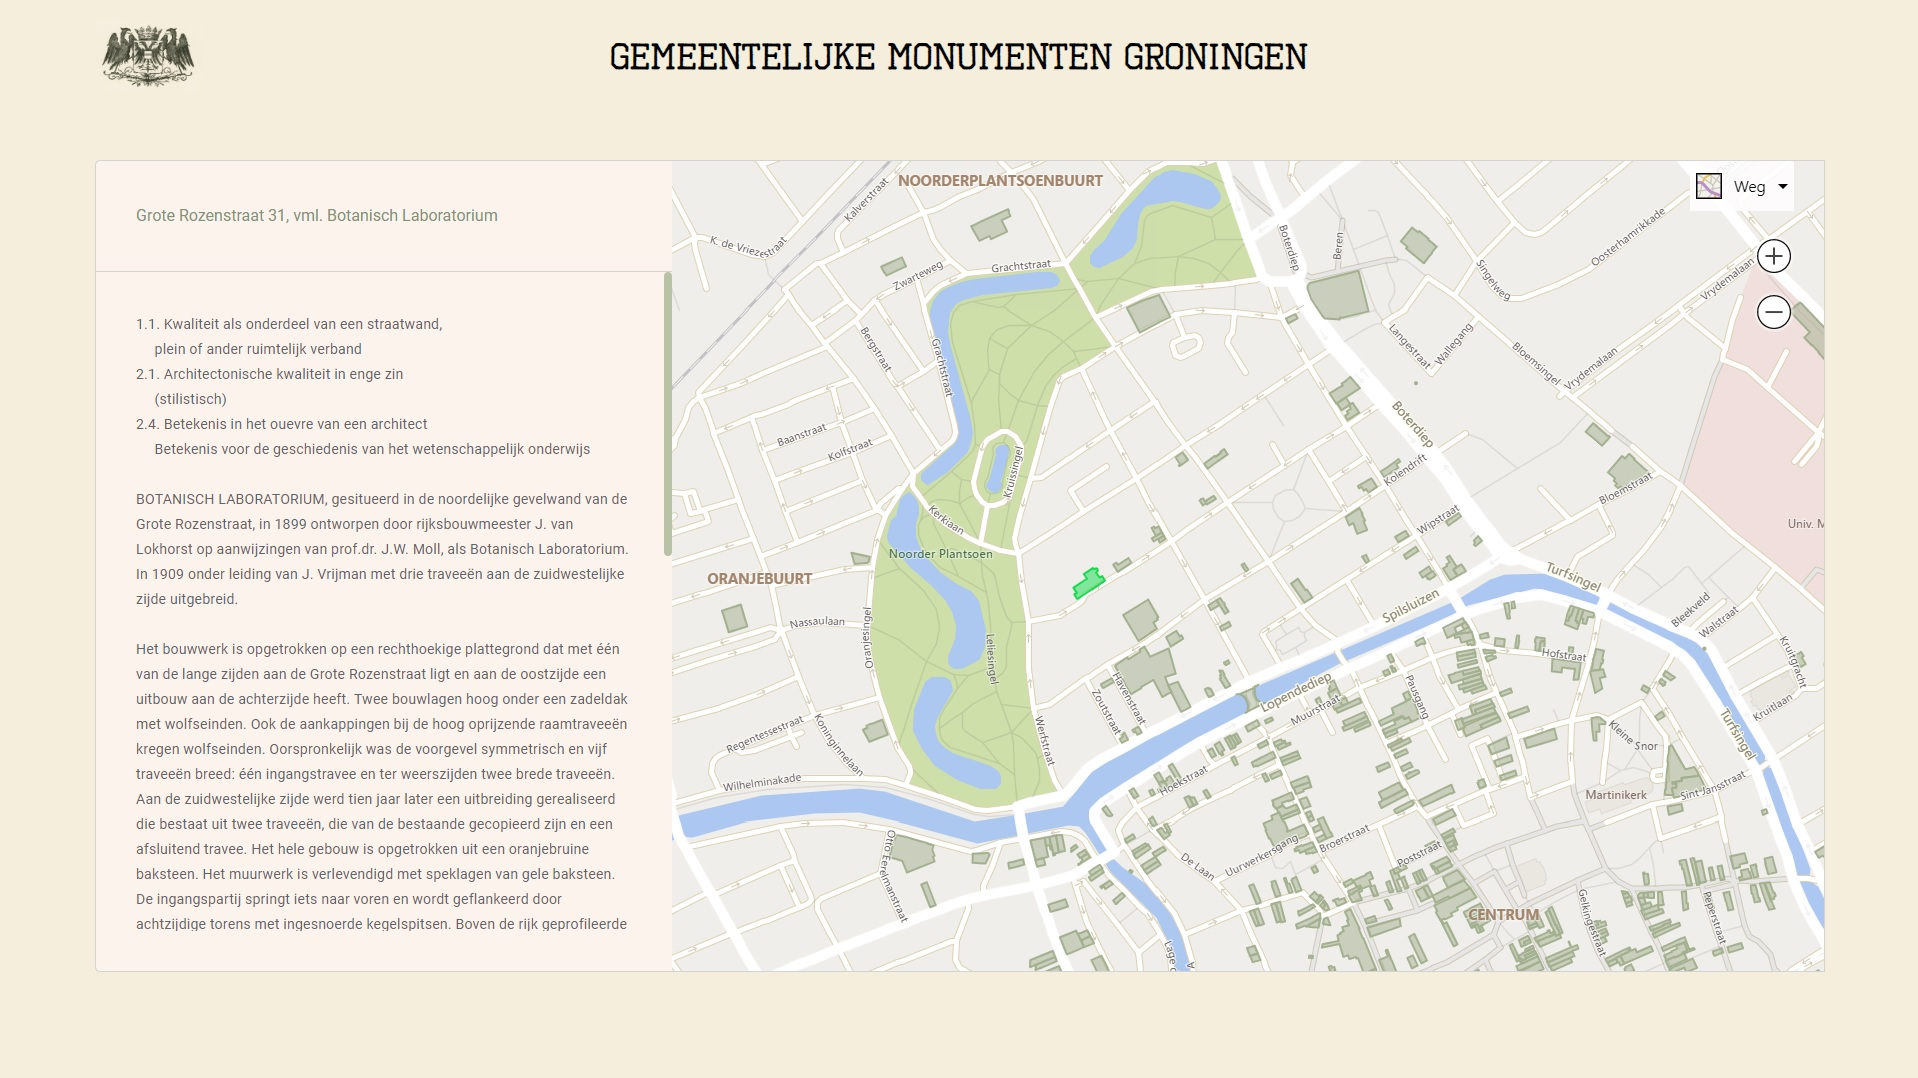
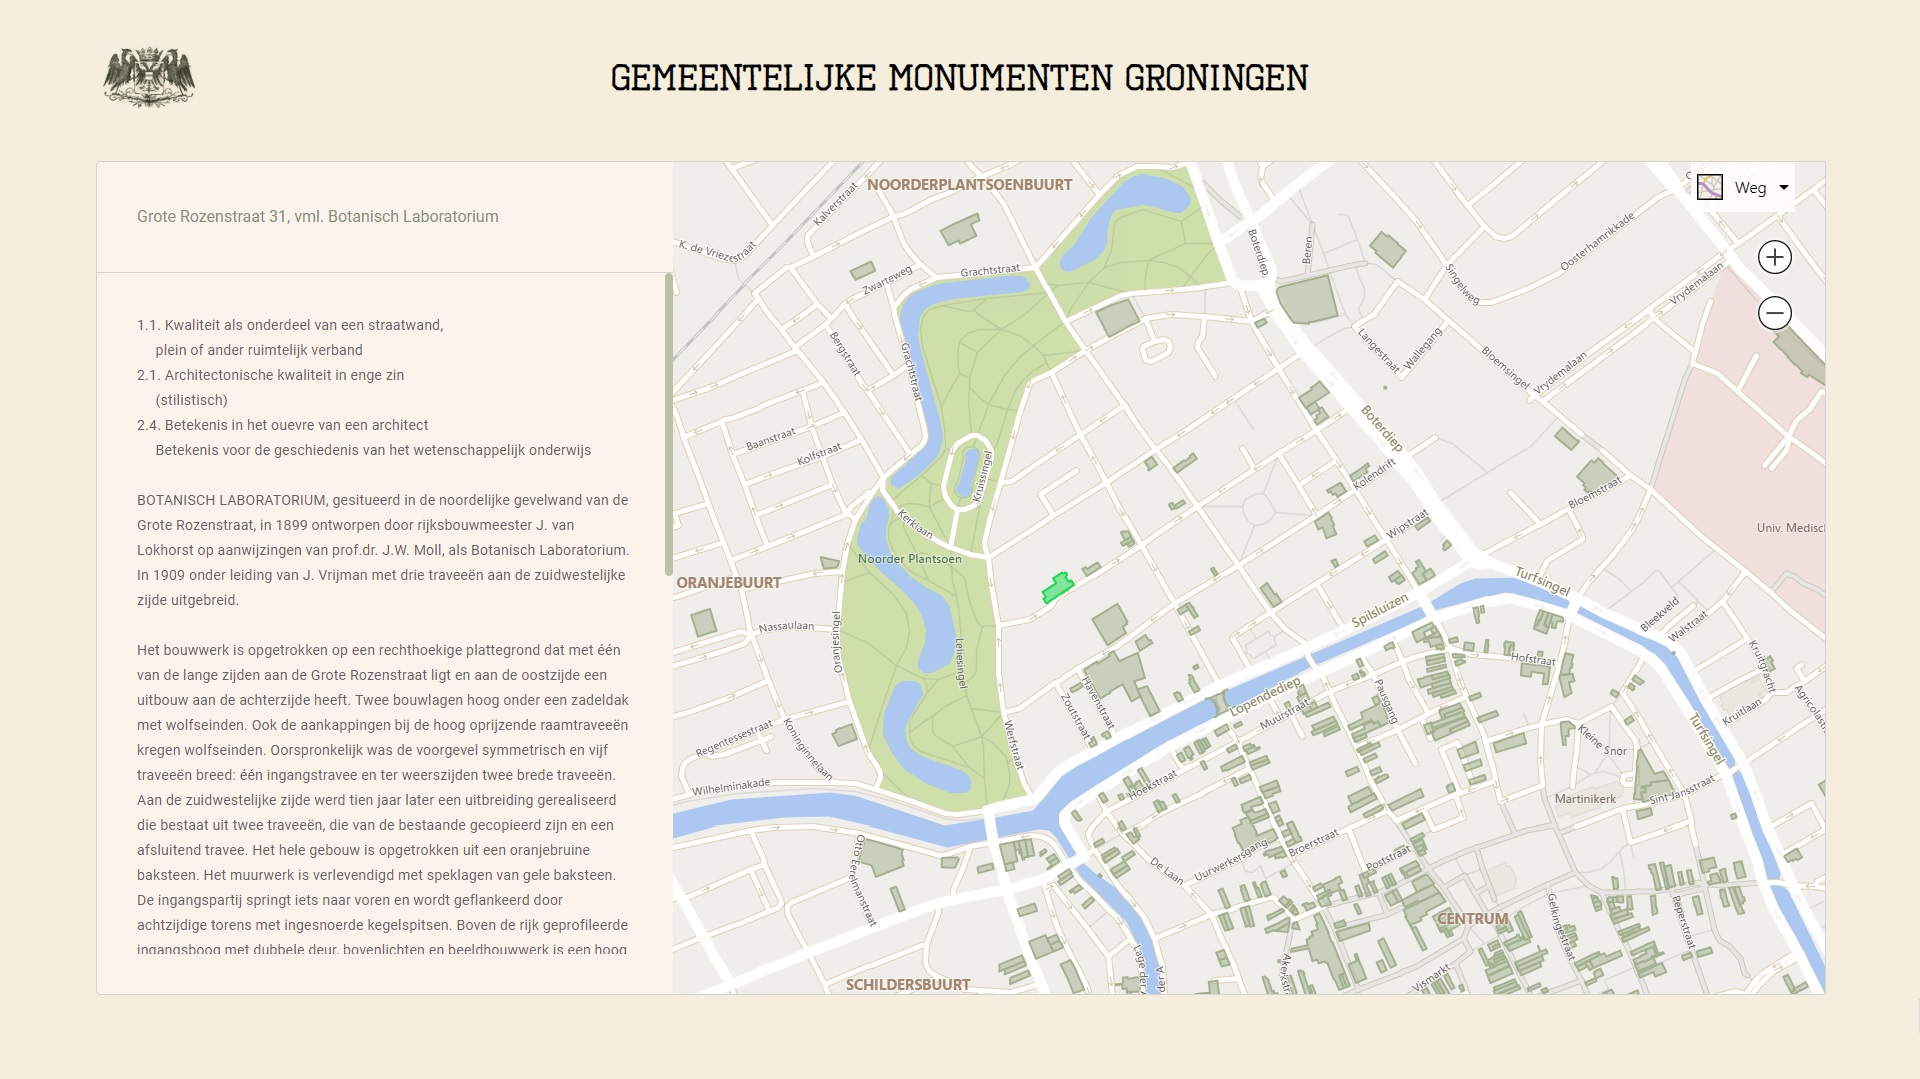
Updated screenshot.

diff --git a/styles.css b/styles.css
@@ -17,7 +17,7 @@ h1 {
     display: flex;
     width: 100%;
     justify-content: center;
-    height: 100px;
+    height: 140px;
     background-color: #F5EEDC;
     align-items: center;
 }
@@ -27,45 +27,9 @@ img {
     left: 5%;
 }
 
-.borderOne {
-    border: solid 1px lightgrey;
-    width: calc(90% + 4px);
-    height: calc(75% + 4px);
-    position: absolute;
-    left: calc(5% - 2px);
-    top: calc(15% - 2px);
-}
-
-.borderTwo {
-    border: solid 1px lightgrey;
-    width: calc(90% + 54px);
-    height: calc(75% + 54px);
-    position: absolute;
-    left: calc(5% - 27px);
-    top: calc(15% - 27px);
-}
-
-.borderThree {
-    border: solid 3px #5f6368;
-    width: calc(90% + 60px);
-    height: calc(75% + 60px);
-    position: absolute;
-    left: calc(5% - 32px);
-    top: calc(15% - 32px);
-}
-
-.borderFour {
-    border: solid 1px lightgrey;
-    width: calc(90% + 70px);
-    height: calc(75% + 70px);
-    position: absolute;
-    left: calc(5% - 35px);
-    top: calc(15% - 35px);
-}
-
 #bingMap {
     width: 60%;
-    height: 75%;
+    height: 77%;
     margin: auto;
     position: absolute;
     left: calc(35% + 1px);
@@ -79,8 +43,8 @@ img {
     display: flex;
     flex-direction: column;
     justify-content: flex-start;
-    width: calc(30%);
-    height: calc(75%);
+    width: 30%;
+    height: 77%;
     background-color: #FBF3EC;
     position: absolute;
     left: 5%;
